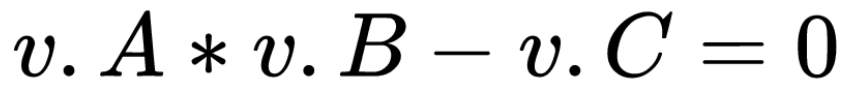
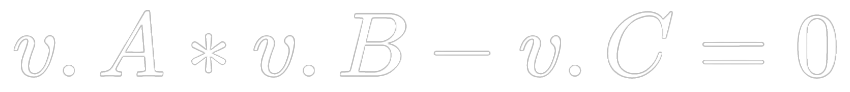
Black theme

diff --git a/index.html b/index.html
@@ -66,9 +66,6 @@
       background: #333;
       background-image: linear-gradient(to right, #ccc, #333, #ccc);
     }
-    img {
-      background-color: white;
-    }
 
   </style>
   <script async defer src="https://buttons.github.io/buttons.js"></script>
@@ -86,7 +83,7 @@
     <hr>
     <h2>What is Ziesha?</h2>
     <p>
-      Ziesha (ℤ) is a new layer-1 cryptocurrency which uses <b>Zero Knowledge proofs</b> as the back-end of its smart-contracts, focusing on a more scalable (Yet maintainable) blockchain by compressing transactions through zkRollup-like circuits. In order to keep the protocol simple, the smart-contracts are expressed as mathematical constraints instead of bytecodes of a virtual machine. 
+      Ziesha (ℤ) is a new layer-1 cryptocurrency which uses <b>Zero Knowledge proofs</b> as the back-end of its smart-contracts, focusing on a more scalable (Yet maintainable) blockchain by compressing transactions through zkRollup-like circuits. In order to keep the protocol simple, the smart-contracts are expressed as mathematical constraints instead of bytecodes of a virtual machine.
     </p>
     <div style="text-align:center; font-size:5em;">ℤ</div>
     <p>

diff --git a/faq.html b/faq.html
@@ -57,9 +57,6 @@
       background: #333;
       background-image: linear-gradient(to right, #ccc, #333, #ccc);
     }
-    img {
-      background-color: white;
-    }
 
   </style>
   <script async defer src="https://buttons.github.io/buttons.js"></script>
@@ -128,7 +125,7 @@
       but their side-effects are. This makes them lighter and more effecient compared
       to <i>rsend</i> transactions.
     </p>
-    
+
     <h2>What consensus algorithm does Ziesha use?</h2>
     <p>
       In the main chain, the consensus is achieved through Proof-of-Work using

diff --git a/index_ru.html b/index_ru.html
@@ -55,9 +55,6 @@
       background: #333;
       background-image: linear-gradient(to right, #ccc, #333, #ccc);
     }
-    img {
-      background-color: white;
-    }
 
   </style>
   <script async defer src="https://buttons.github.io/buttons.js"></script>

diff --git a/index_zh.html b/index_zh.html
@@ -55,9 +55,6 @@
       background: #333;
       background-image: linear-gradient(to right, #ccc, #333, #ccc);
     }
-    img {
-      background-color: white;
-    }
 
   </style>
   <script async defer src="https://buttons.github.io/buttons.js"></script>

diff --git a/terms.html b/terms.html
@@ -55,9 +55,6 @@
       background: #333;
       background-image: linear-gradient(to right, #ccc, #333, #ccc);
     }
-    img {
-      background-color: white;
-    }
 
   </style>
   <script async defer src="https://buttons.github.io/buttons.js"></script>
